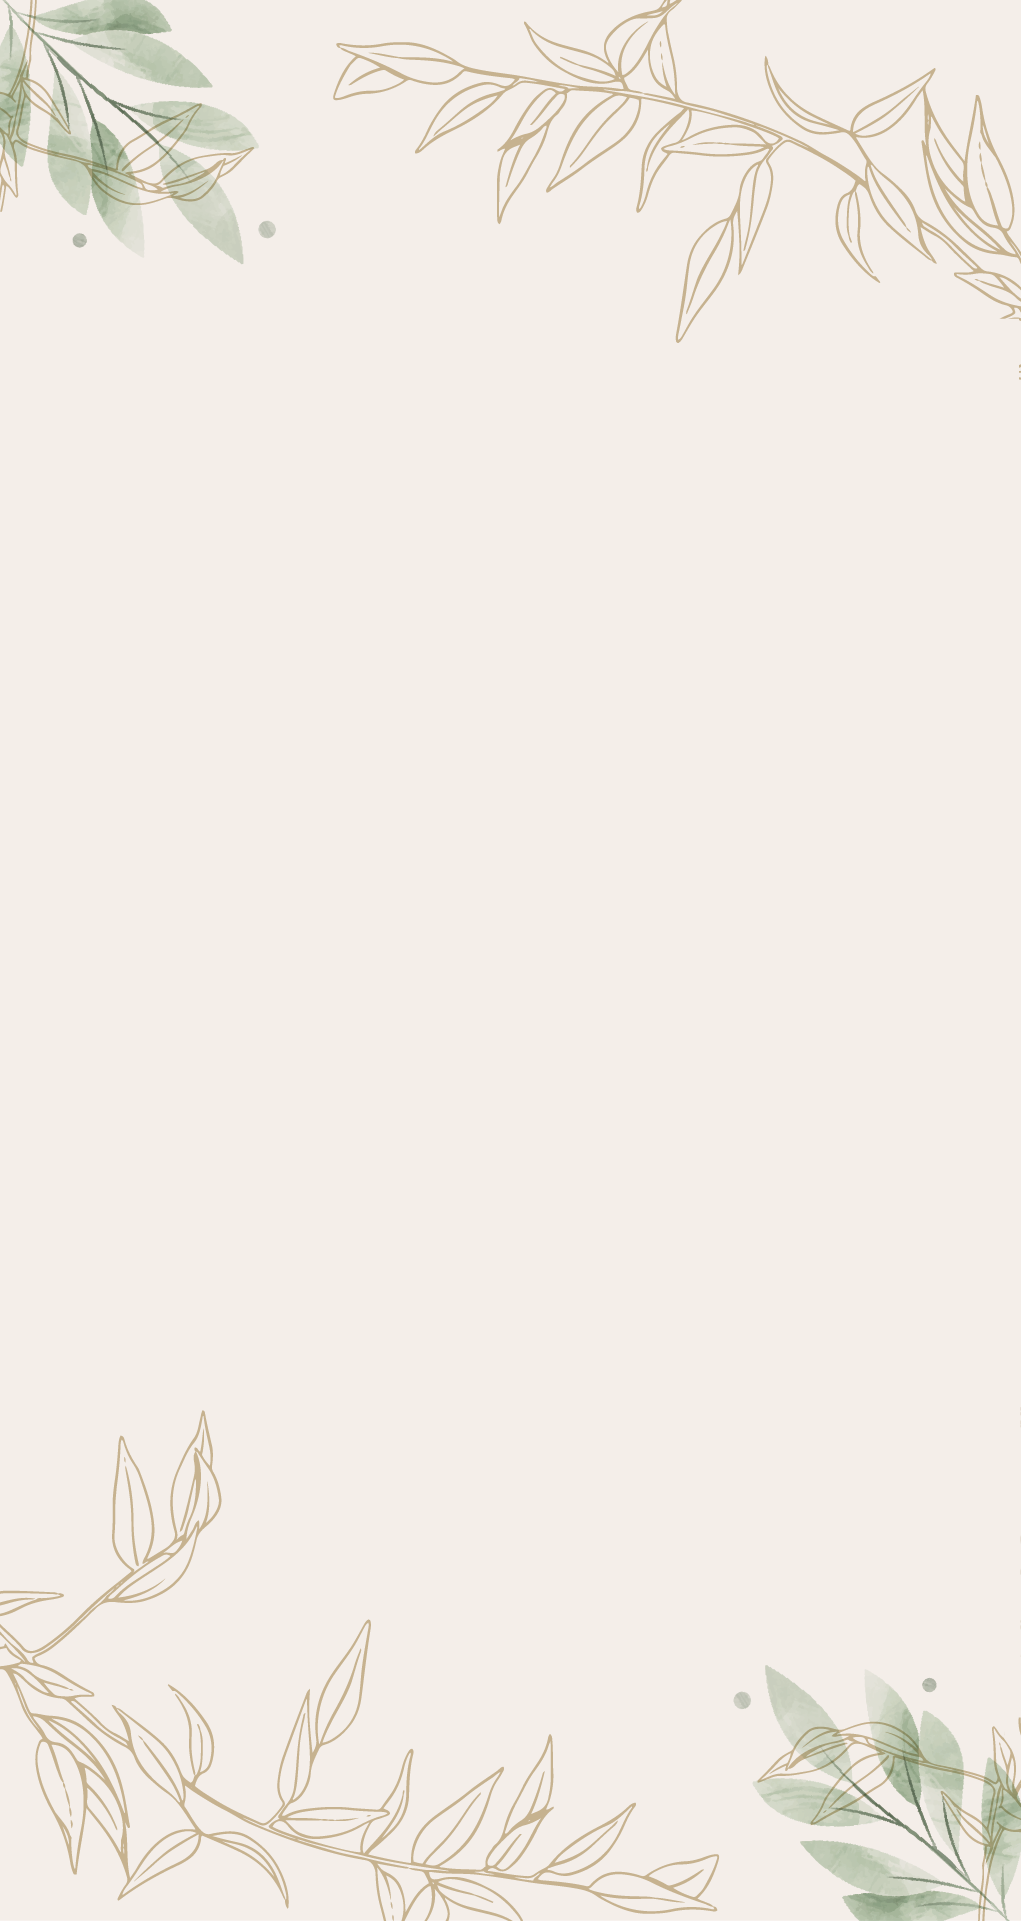
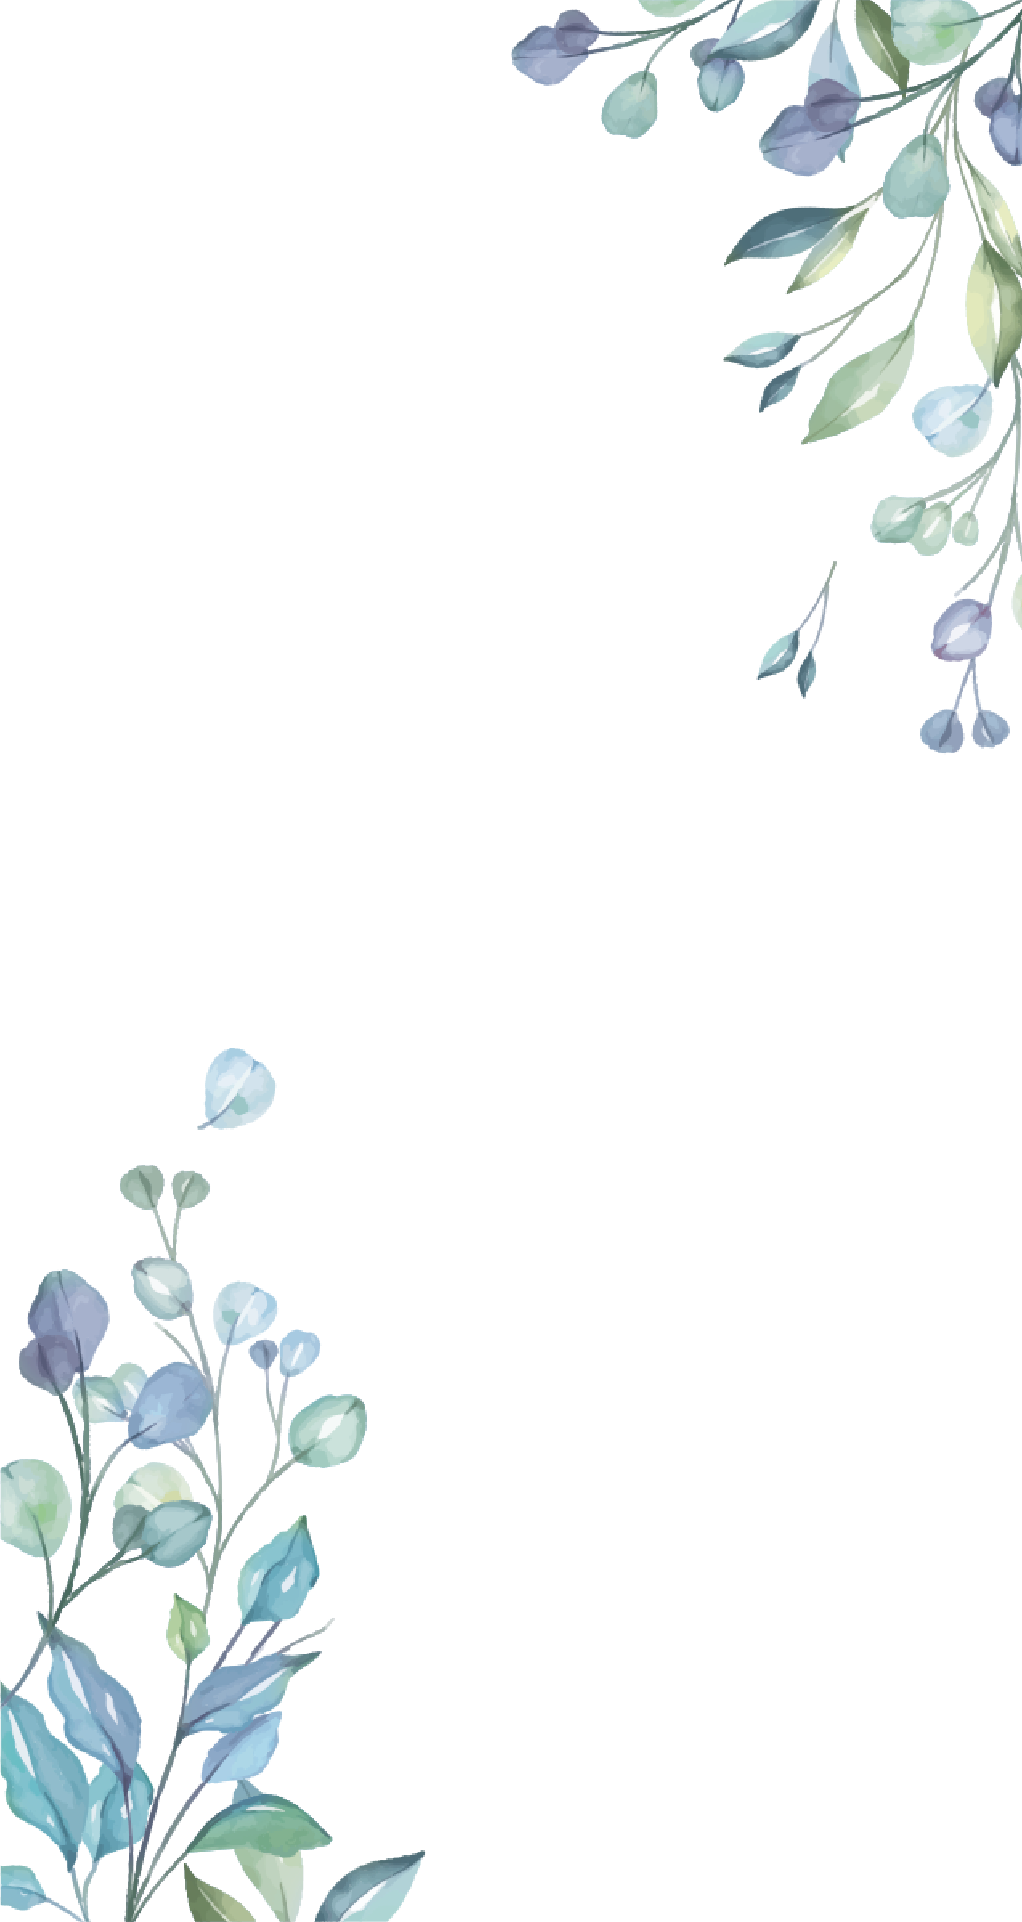
add images, fix welcome

diff --git a/src/components/layouts/FullLayout.tsx b/src/components/layouts/FullLayout.tsx
@@ -26,10 +26,10 @@ const FullLayout = () => {
   const {countdown, location, gift, rsvp, social, phrase} = SECTIONS;
   return (
     <div>
-      {welcomeEnabled && <Welcome/>}
+      {welcomeEnabled && <Welcome enableTextGesture onClickNames={() => setImageSelected({image: '/images/easter-1.jpeg', order: 0})}/>}
       {countdownEnabled &&
         <section>
-          <CountdownSection date={countdown.date} bgColor={'#eef1fa'} textColor={'#667f9b'}/>
+          <CountdownSection date={countdown.date} bgColor={'#eef1fa'} textColor={'#667f9b'} onClickEasterEgg={() => setImageSelected({image: '/images/easter-2.jpeg', order: 1})}/>
         </section>}
       {locationEnabled &&
         <section className={'section-container'}>
@@ -42,7 +42,7 @@ const FullLayout = () => {
         </section>}
       {giftEnabled &&
         <section className={'section-container'}>
-          <GiftSection description={gift.description} bgColor={'#595B78'} iconColor={'#f7f7ff'}/>
+          <GiftSection description={gift.description} onClickIcon={() => setImageSelected({image: '/images/easter-3.jpeg', order: 2})} bgColor={'#595B78'} iconColor={'#f7f7ff'}/>
         </section>}
       {rsvpEnabled &&
         <section className={'section-container'}>
@@ -56,11 +56,16 @@ const FullLayout = () => {
           <SocialSection
             hashtag={social.hashtag}
             url={social.url}
+            bgColor={'#e8e8f3'}
+            textColor={'#595B78'}
             description={social.description}/>
         </section>}
       {phraseEnabled &&
         <section>
           <PhraseSection mainText={phrase.mainText}
+                         bgColor={'#fafbff'}
+                         textColor={'#667f9b'}
+                         onClickEaster={() => setImageSelected({image: '/images/easter-5.jpeg', order: 4})}
                          secondaryText={phrase.secondaryText}/>
         </section>}
       <SecretModal order={imageSelected.order} image={imageSelected.image ? imageSelected.image : '/undraw_wedding.svg'}

diff --git a/src/config/config.ts b/src/config/config.ts
@@ -32,8 +32,8 @@ export const SECTIONS = {
   gift: {
     description: 'Si deseás realizarnos un regalo podés colaborar con nuestra Luna de Miel...',
     accounts: [
-      {cbu: '15003038-00030361002478', alias: 'vickygarcea', bank: 'HSBC', logo: 'hsbc.png', accountHolder: 'Garcea, Maria Victoria', accountNumber: '', accountType: 'pesos'},
-      {cbu: '15003038-00030380705596', alias: 'vickygarceausd', bank: 'HSBC', logo: 'hsbc.png', accountHolder: 'Garcea, Maria Victoria', accountNumber: '', accountType: 'dólares'}
+      {cbu: '15003038-00030361002478', alias: 'vickygarcea', bank: 'HSBC', logo: 'hsbc.png', accountHolder: 'Garcea, Maria Victoria', accountNumber: '3036100247', accountType: 'pesos'},
+      {cbu: '15003038-00030380705596', alias: 'vickygarceausd', bank: 'HSBC', logo: 'hsbc.png', accountHolder: 'Garcea, Maria Victoria', accountNumber: '3038070559', accountType: 'dólares'}
     ]
   },
   rsvp: {
@@ -46,7 +46,7 @@ export const SECTIONS = {
     description: 'No olvides etiquetarnos en tus fotos o videos de Instagram con nuestro hashtag!'
   },
   phrase: {
-    mainText: '¡Gracias por acompañarnos ❣!',
+    mainText: '¡Gracias por acompañarnos ',
     secondaryText: '',
   }
 }

diff --git a/styles/globals.scss b/styles/globals.scss
@@ -1,5 +1,5 @@
 $primary-color: #c3b38f;
-$primary-background: lighten(#c3b38f, 30);
+$primary-background: lighten(#415743, 64);
 $primary-color-dark: darken(#c3b38f, 10);
 
 html,
@@ -30,8 +30,8 @@ a {
   text-shadow: none;
   width: 30px;
   height: 30px;
-  border-bottom: 4px solid #88642e;
-  border-right: 4px solid #88642e;
+  border-bottom: 4px solid #79B1BE;
+  border-right: 4px solid #79B1BE;
   z-index: 9;
   left: calc(50% - 15px);
   -webkit-transform: translate(-50%, 0%) rotate(45deg);
@@ -58,7 +58,7 @@ a {
 
 .btn-primary {
   cursor: pointer;
-  color: #5b5342;
+  color: #415743;
   background: $primary-background;
   border: transparent;
   padding: 0.75rem 1.25rem;
@@ -74,7 +74,7 @@ a {
 
 .btn-secondary {
   cursor: pointer;
-  color: #657559;
+  color: #596275;
   background: #ffffff;
   border: 1px solid white;
   padding: 0.75rem 1.25rem;
@@ -113,8 +113,9 @@ span.touch-gesture {
   border-radius: 50%;
   margin: 0 5px;
   position: absolute;
-  z-index: 0;
-  background-color: #d9caa9;
+  z-index: 1;
+  opacity: 0.6;
+  background-color: #a0d9e7;
   transform: scale(0.8);
 }
 

diff --git a/src/components/elements/Welcome/Welcome.tsx b/src/components/elements/Welcome/Welcome.tsx
@@ -30,7 +30,7 @@ const Welcome = ({bgColor, onClickNames, enableTextGesture}: Props) => {
         {isMobile === true && <Image src={'/wedding-background-mobile.png'} priority layout="fill" objectFit="cover" alt={'Fondo de invitación'}/>}
         <div className={styles.names}>
           {showGesture && enableTextGesture && <span className={'touch-gesture'}/>}
-          {/*<Image onClick={onClickNames}  src={'/names.png'} priority height={500} width={300}  alt={'Sofi y Maxi - 19/02/22'}/>*/}
+          <Image onClick={onClickNames}  src={'/names.png'} priority height={500} width={300}  alt={'Vicky y Santi - 20/11/22'}/>
         </div>
       </div>
       <div className={'scrollDown'}/>

diff --git a/src/components/modules/PhraseSection/PhraseSection.tsx b/src/components/modules/PhraseSection/PhraseSection.tsx
@@ -6,13 +6,14 @@ type Props = {
   secondaryText?: string;
   textColor?: string;
   bgColor?: string;
+  onClickEaster?(): void
 }
 
-const PhraseSection = ({mainText, secondaryText, textColor = '#6e7b62', bgColor = '#f6f7f5'}: Props) => {
+const PhraseSection = ({mainText, secondaryText, onClickEaster, textColor = '#6e7b62', bgColor = '#f6f7f5'}: Props) => {
 
   return (
     <div className={styles.phraseContainer} style={{color: textColor, backgroundColor: bgColor}}>
-      <p className={styles.main}>{mainText}</p>
+      <p className={styles.main}>{mainText}<span onClick={onClickEaster}>❣!</span></p>
       <p className={styles.secondary}>{secondaryText}</p>
     </div>
   )

diff --git a/src/components/elements/SecretModal/SecretModal.tsx b/src/components/elements/SecretModal/SecretModal.tsx
@@ -25,7 +25,7 @@ const SecretModal = ({image, order, visible, onClose}: Props) => {
             <Text textAlign={'center'} marginBottom={'8px'} fontWeight={300}>El primero que encuentre las <strong>5</strong> fotos y arme bien la frase,
               recibirá un regalo.</Text>
             <Box display={'flex'} justifyContent={'center'}>
-              <Image src={image} height={420} width={420} alt={'Easter egg'}/>
+              <Image src={image} height={420} width={560} alt={'Easter egg'}/>
             </Box>
             <Text textAlign={'center'}
                   fontWeight={'bold'}

diff --git a/src/components/modules/CountdownSection/CountdownSection.tsx b/src/components/modules/CountdownSection/CountdownSection.tsx
@@ -33,7 +33,7 @@ const CountdownSection = ({date, onClickEasterEgg, title = 'Faltan', bgColor = '
                 <p className={styles.timeLabel}>Horas</p>
               </div>
               <div className={styles.timeContainer}>
-                <p className={styles.timeValue}>{minutes}</p>
+                <p className={styles.timeValue} onClick={onClickEasterEgg}>{minutes}</p>
                 <p className={styles.timeLabel}>Minutos</p>
               </div>
               {/*<div className={styles.timeContainer}>*/}

diff --git a/src/components/modules/LocationSection/LocationSection.tsx b/src/components/modules/LocationSection/LocationSection.tsx
@@ -28,7 +28,7 @@ const LocationSection = ({ceremonyDescription, ceremonyUrl, ceremonyTitle, onCli
       {/*</div>*/}
         <Section title={partyTitle ?? 'Fiesta'}
                  onClick={onClickEasterEgg}
-                 icon={<BiDrink size={48} color={'#c3b38f'}/>}
+                 icon={<BiDrink size={48} color={'#82AE87'}/>}
                  description={partyDescription}
                  redirect={partyUrl}
                  buttonLabel={partyUrlLabel ?? 'Ver en Google Maps'}/>

diff --git a/src/components/elements/Welcome/Welcome.module.scss b/src/components/elements/Welcome/Welcome.module.scss
@@ -16,5 +16,4 @@
     padding-bottom: 50px;
 
   }
-
 }
